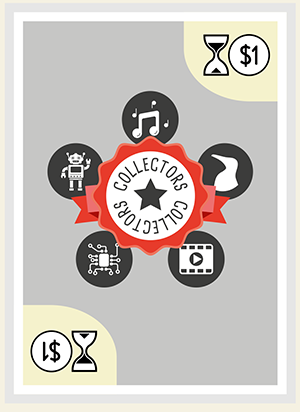
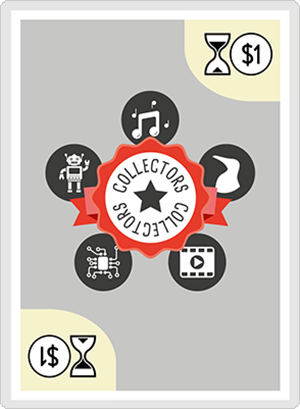
Player board: lagt till osnygg lösning på items. Collectors: vänt på draw card, lagt till invitelänk

Changed region(s): [[0.0, 0.0, 1.0, 1.0], [0.15, 0.2054, 0.87, 0.7335]]

diff --git a/src/views/Collectors.vue b/src/views/Collectors.vue
@@ -5,12 +5,8 @@
         <h1>Welcome to Rich Collectors</h1>
       </div>
 
-      <div id="startInfo">
+      <div class="info left">
         <button class="buttons">{{ this.labels.rules }}</button>
-
-
-
-
         <button class="buttons"> {{ this.labels.nextQuarter }}</button>
       </div>
 
@@ -27,13 +23,15 @@
 
 
 
+      <div class="info right">
+        <p>
+          {{ labels.invite }}
+          <input type="text" :value="publicPath + $route.path" @click="selectAll" readonly="readonly">
+        </p>
 
-
-
-      <div id="drawCard">
         <!-- <p id="drawCardText">{{ this.labels.draw }}:</p> -->
         <input type="image" @click="drawCard" id="drawCardButton" alt="Login"
-        src='/images/card_backside300px.png' value="Draw card"  >    <!-- NÄR MAN DRAR KORT ÅTERSTÄLLS ENS MONEY -->
+        src='/images/card_backside_flipped.png' value="Draw card"  >    <!-- NÄR MAN DRAR KORT ÅTERSTÄLLS ENS MONEY -->
 
         <!-- <button class="buttons" @click="player.money += 1">
           Fake money
@@ -512,7 +510,7 @@ header {
   display: grid;
   grid-template-columns: 30% 40% 30%;
   grid-template-areas:
-  "startInfo welcome drawCard";
+  "leftInfo welcome rightInfo";
   padding-left: 1em;
   margin: 0;
   align-items: center;
@@ -520,12 +518,21 @@ header {
   grid-area: header;
 }
 
-#startInfo {
-  grid-area: startInfo;
+.info {
+  display: flex;
+  align-items: flex-end;
+  padding: 0 5%;
+}
+
+.left { grid-area: leftInfo; }
+
+#welcome { grid-area: welcome; }
+
+.right {
+  grid-area: rightInfo;
   display: flex;
 }
-#welcome { grid-area: welcome; }
-#drawCard { grid-area: drawCard; }
+
 
 /* =========================
 BUTTONS                    */
@@ -565,7 +572,6 @@ BUTTONS                    */
   font-size: 1.2em;
   background: #e63b2b;
   margin: 5% 0;
-
 }
 
 .closeButton:hover, .drawCardButton:hover {
@@ -576,24 +582,11 @@ BUTTONS                    */
   box-shadow: inset 2px 2px 3px #787975;
 }
 
-#drawCard {
-  display: grid;
-  grid-template-columns: 1fr 1fr;
-  grid-template-areas:
-  "drawCardText drawCardButton";
-}
-
-#drawCardText {
-  grid-area: drawCardText;
-} */
-
 #drawCardButton {
-  grid-area: drawCardButton;
-  border: solid thin #787975;
   border-radius: 0.3em;
   box-shadow: 0.2em 0.2em 0.3em #787975;
-  width: 13%;
-  text-align: center;
+  width: 20%;
+  margin-left: 5%;
 }
 
 .drawCardButton:hover {
@@ -635,7 +628,7 @@ footer a:visited {
   color:ivory;
 }
 
-.game, .player { padding: 1em; }
+.board { padding: 0.2em 1em 1em 1em; }
 
 /* =====================================
 GAME BOARD (GRID)                 */
